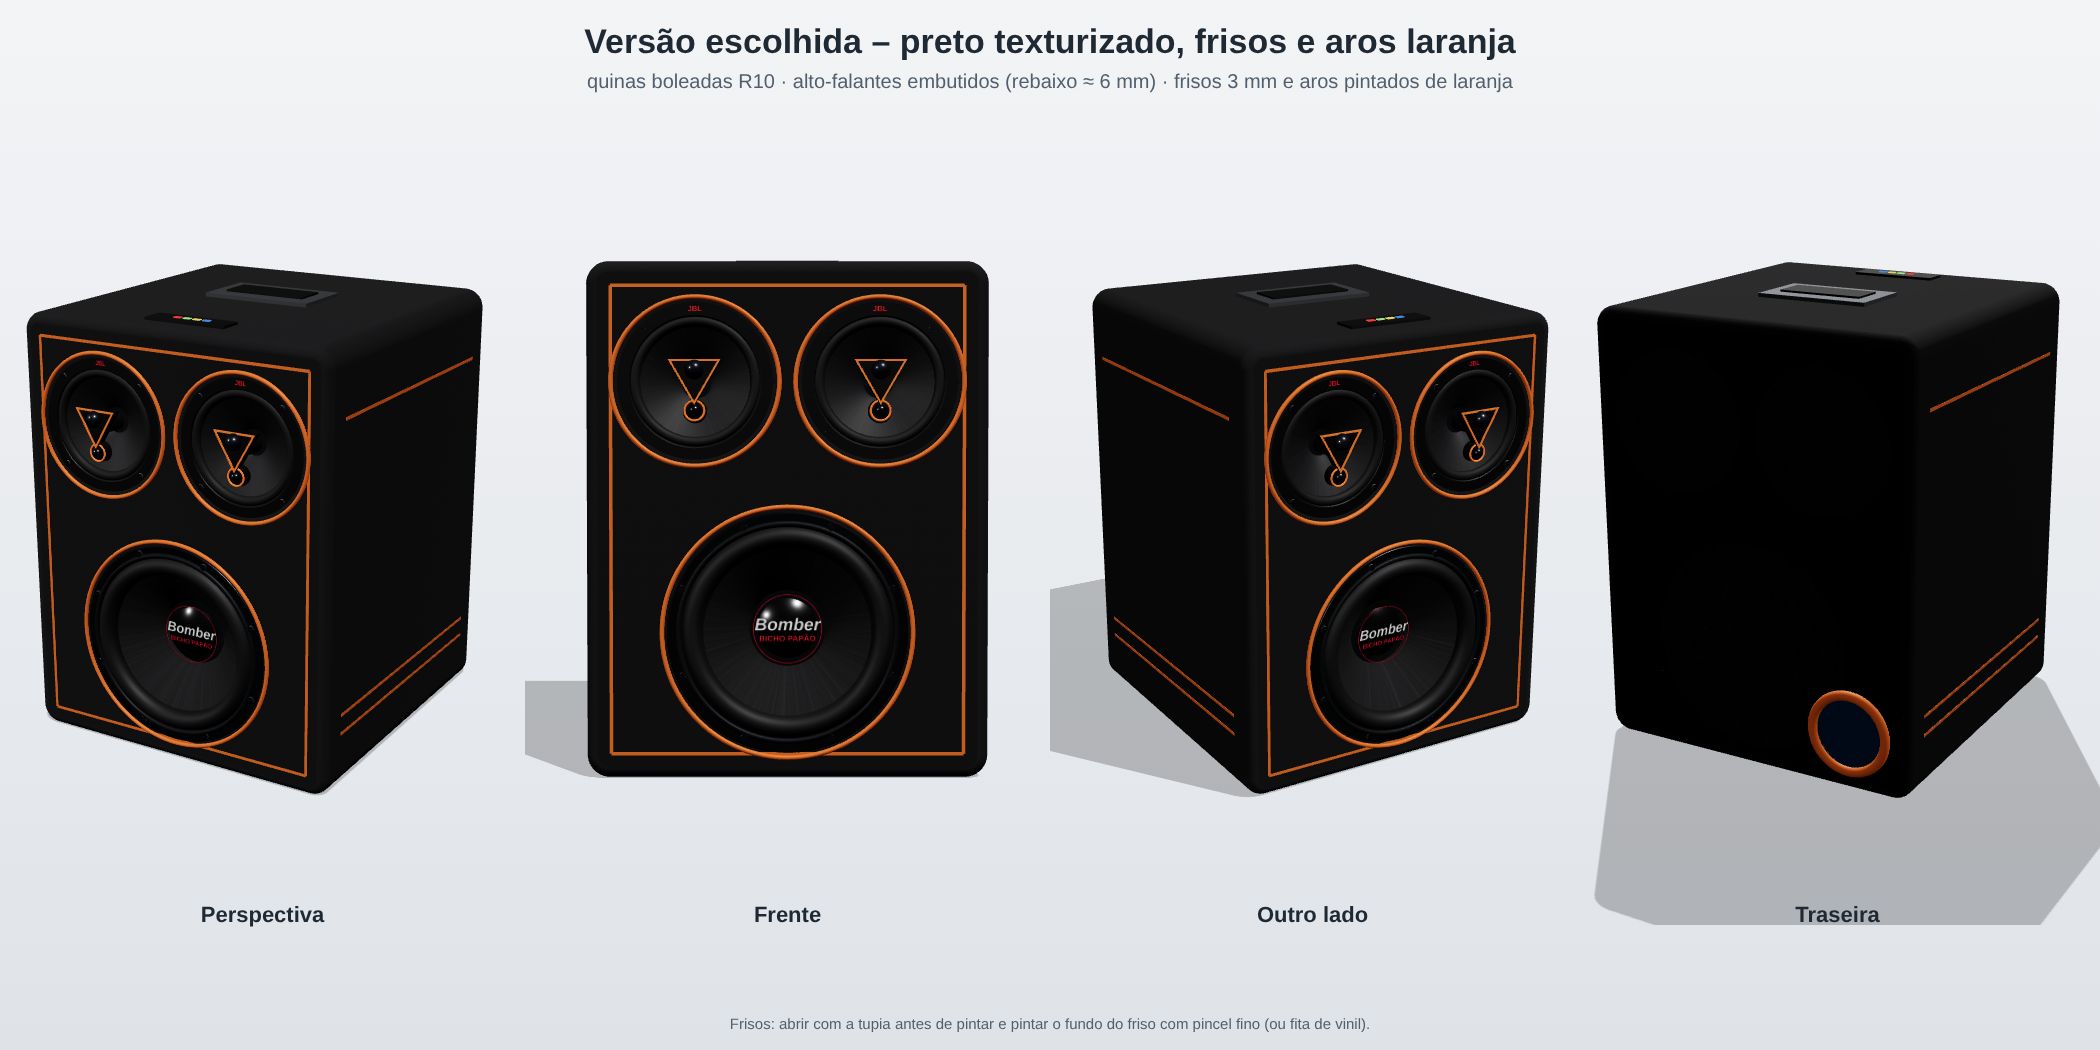
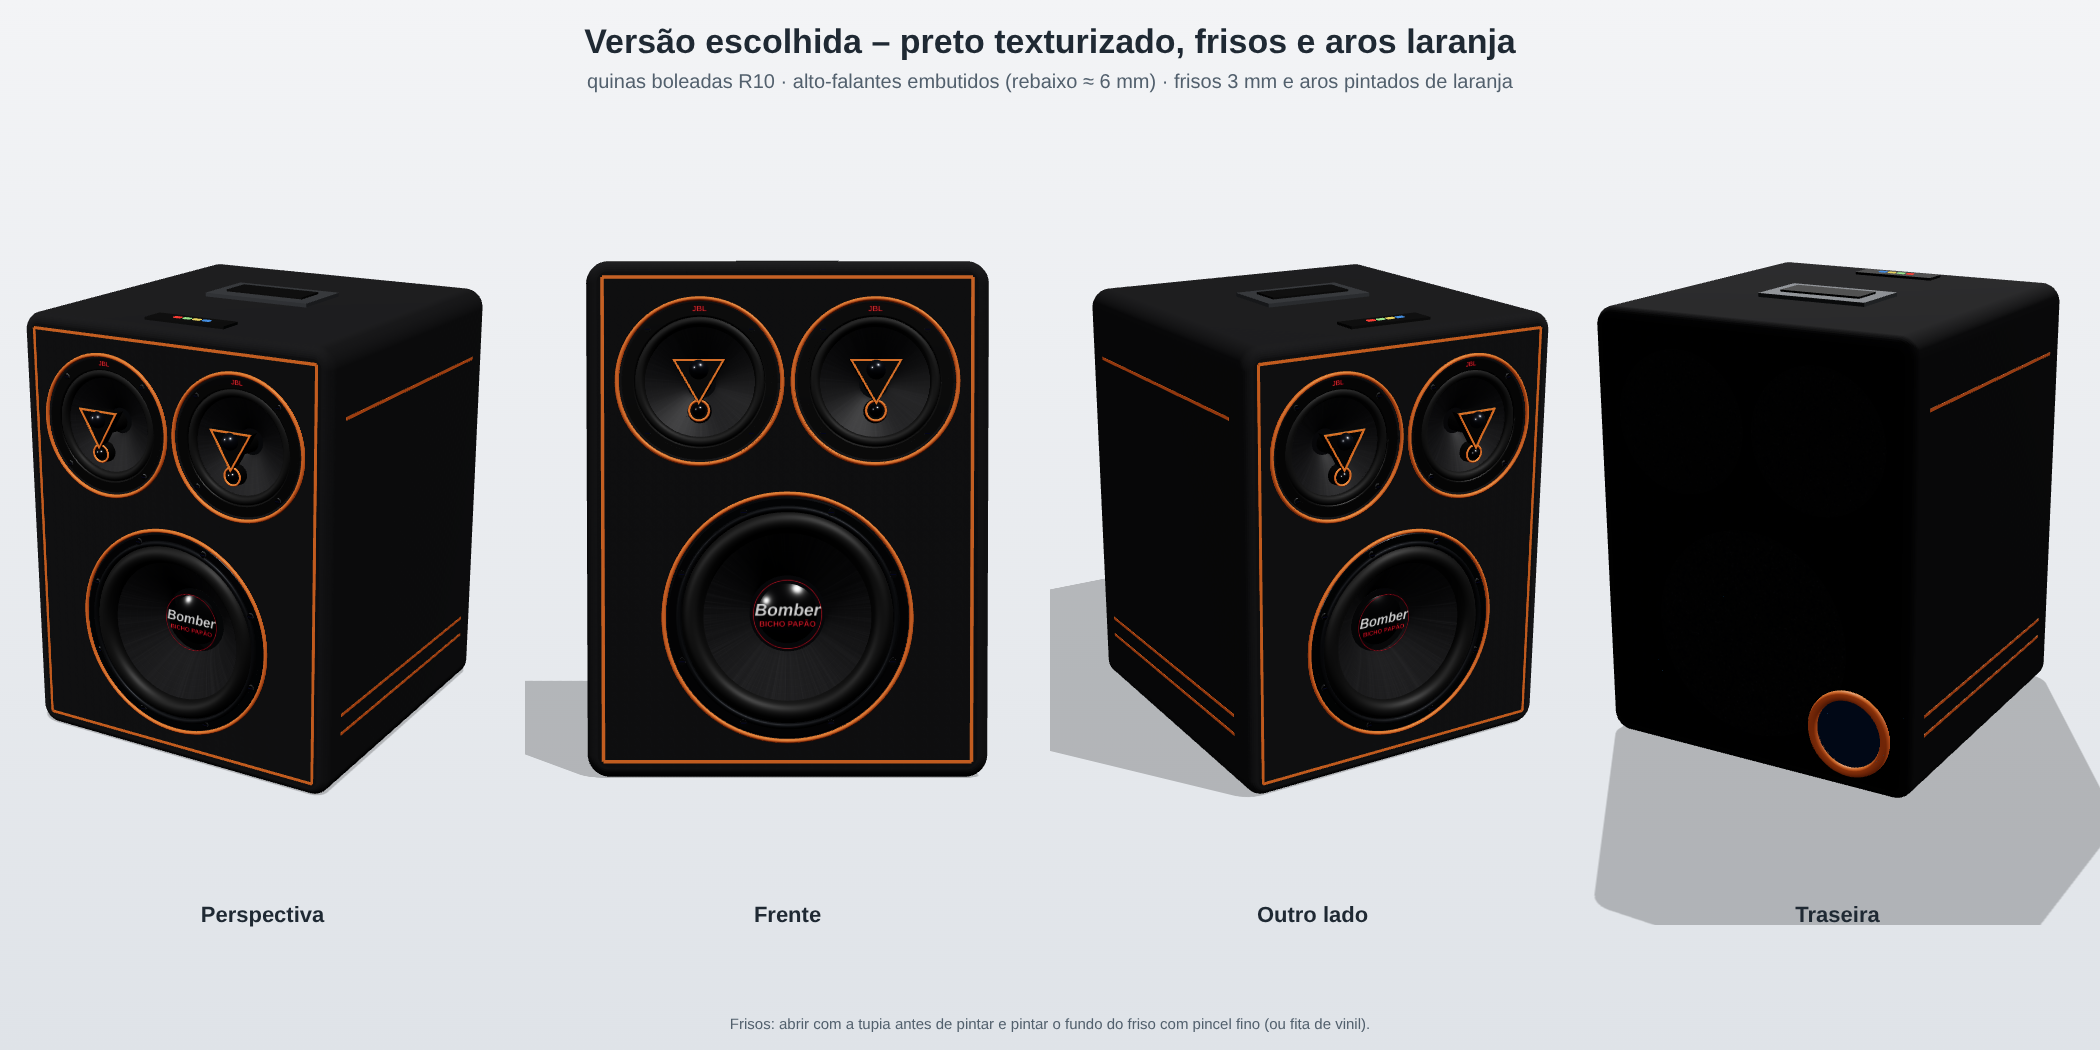
Afasta frisos e aros para não se encostarem
Claude-Session: https://claude.ai/code/session_01Xqr2b8JS1uj39tzQWZP4xF

Changed region(s): [[0.2786, 0.2438, 0.4643, 0.7314], [0.5881, 0.3048, 0.7429, 0.7619], [0.0, 0.3048, 0.1548, 0.7619]]

diff --git a/ferramentas/render3d/escolhida.html b/ferramentas/render3d/escolhida.html
@@ -14,7 +14,7 @@ body{margin:0;width:2100px;height:1050px;background:linear-gradient(#f3f4f6,#dfe
 <script src="node_modules/three/build/three.min.js"></script>
 <script>
 const W=35,H=45,D=35,T=1.5;
-const subH=22.5, subY=-H/2+T+11.25, divY=-H/2+T+subH+T/2, upH=H-3*T-subH, jY=divY+T/2+upH/2, jX=8, bayZ0=-D/2+T, bayZ1=D/2-T-11-T;
+const subH=22.5, subY=-H/2+T+12.55, divY=-H/2+T+subH+T/2, upH=H-3*T-subH, jY=divY+T/2+upH/2, jX=7.6, bayZ0=-D/2+T, bayZ1=D/2-T-11-T;
 const X0=xr=>(W/2-T)-xr, Y0=yr=>(-H/2+T)+yr;
 function mdfTex(){const c=document.createElement('canvas');c.width=c.height=512;const g=c.getContext('2d');
  g.fillStyle='#8fa486';g.fillRect(0,0,512,512);
@@ -38,7 +38,7 @@ function scene(open){
    if(VAR.grooves){const gm=new THREE.MeshStandardMaterial({color:VAR.grooves,roughness:0.5,metalness:0.2});
      const gb=(w,h,d,x,y,z)=>{const b=new THREE.Mesh(new THREE.BoxGeometry(w,h,d),gm);b.position.set(x,y,z);g.add(b);};
      for(const yy of[-H/2+6,-H/2+8,H/2-7])for(const sx of[-1,1])gb(0.06,0.32,D-6,sx*(W/2+0.005),yy,0);
-     const m2=2.2;gb(W-2*m2,0.3,0.06,0,H/2-m2,D/2+0.005);gb(W-2*m2,0.3,0.06,0,-H/2+m2,D/2+0.005);gb(0.3,H-2*m2,0.06,-W/2+m2,0,D/2+0.005);gb(0.3,H-2*m2,0.06,W/2-m2,0,D/2+0.005);}
+     const m2=1.5;gb(W-2*m2,0.3,0.06,0,H/2-m2,D/2+0.005);gb(W-2*m2,0.3,0.06,0,-H/2+m2,D/2+0.005);gb(0.3,H-2*m2,0.06,-W/2+m2,0,D/2+0.005);gb(0.3,H-2*m2,0.06,W/2-m2,0,D/2+0.005);}
  } else {
  const fsh=rectShape();for(const[x,y,r]of[[0,subY,9.25],[-jX,jY,5.6],[jX,jY,5.6]]){const h=new THREE.Path();h.absarc(x,y,r,0,Math.PI*2,true);fsh.holes.push(h);}
  const fr=new THREE.Mesh(new THREE.ExtrudeGeometry(fsh,{depth:T,bevelEnabled:false}),mdfF);fr.position.z=D/2-T;fr.castShadow=true;g.add(fr);
@@ -133,7 +133,7 @@ function scene(open){
 
  // ===== acabamento =====
  if(VAR.ring){const rm=new THREE.MeshStandardMaterial({color:VAR.ring,roughness:0.35,metalness:0.3});
-   for(const[x,y,r]of[[0,subY,10.9],[-jX,jY,7.3],[jX,jY,7.3]]){const t=new THREE.Mesh(new THREE.TorusGeometry(r,0.22,12,128),rm);t.position.set(x,y,D/2+0.05);g.add(t);}}
+   for(const[x,y,r]of[[0,subY,10.75],[-jX,jY,7.15],[jX,jY,7.15]]){const t=new THREE.Mesh(new THREE.TorusGeometry(r,0.2,12,128),rm);t.position.set(x,y,D/2+0.05);g.add(t);}}
  if(VAR.grill){const gt=tex(256,256,(q,w,h)=>{q.clearRect(0,0,w,h);q.fillStyle='rgba(20,20,22,0.92)';for(let y=6;y<h;y+=12)for(let x=6;x<w;x+=12){q.beginPath();q.arc(x+(y/12%2?6:0),y,4.2,0,7);q.fill();}},5);
    const gm=new THREE.MeshStandardMaterial({map:gt,transparent:true,metalness:0.8,roughness:0.4,side:THREE.DoubleSide,alphaTest:0.05});
    for(const[x,y,r]of[[0,subY,10.6],[-jX,jY,7.1],[jX,jY,7.1]]){const d=new THREE.Mesh(new THREE.CircleGeometry(r,96),gm);d.position.set(x,y,D/2+1.9);g.add(d);

diff --git a/notas/acabamento.md b/notas/acabamento.md
@@ -37,7 +37,13 @@
 - **Quinas:** boleadas com fresa de raio 10 mm. Os furos dos alto-falantes também levam a borda boleada.
 - **Alto-falantes embutidos:** rebaixo de ≈ 6 mm, do tamanho da moldura, feito com a tupia e um compasso ou gabarito circular. Rebaixo para o sub com ≈ Ø 211 mm; para os JBL, medir a moldura (≈ Ø 141 mm).
 - **Frisos de 3 mm** (fresa reta ou em V, ≈ 2 mm de profundidade), pintados de laranja:
-  - na frente, uma moldura a 22 mm da borda;
+  - na frente, uma moldura a **15 mm** da borda;
   - em cada lateral, 1 friso em cima e 2 embaixo.
 - **Aros laranja** em volta dos 3 alto-falantes (anel pintado de ≈ 4 mm na borda do rebaixo), e um aro laranja na saída do duto atrás.
 - **Ordem:** cortar e colar → tupia (quinas, rebaixos, frisos) → selar bordas → primer → texturizado preto → pintar frisos e aros de laranja com pincel fino, fita crepe ou vinil laranja → montar.
+
+### Ajuste: linhas sem se encostar
+- Moldura da frente a 15 mm da borda.
+- Aros dos JBL com raio de ≈ 71,5 mm, centros a ±76 mm do meio e a 120 mm acima do centro da caixa.
+- Sub subido 13 mm: centro a ≈ 140 mm do fundo externo (antes 127 mm). Aro com raio de ≈ 107,5 mm.
+- Folgas mínimas: aro e moldura ≈ 8 mm nas laterais e ≈ 18 mm em cima e embaixo; aro e aro entre os JBL ≈ 9 mm; aro do sub e aros dos JBL ≈ 25 mm.
